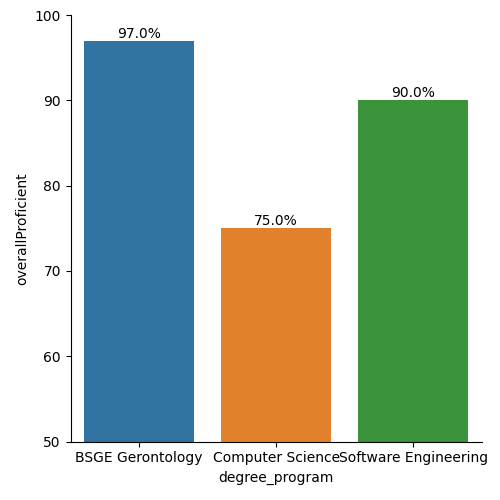
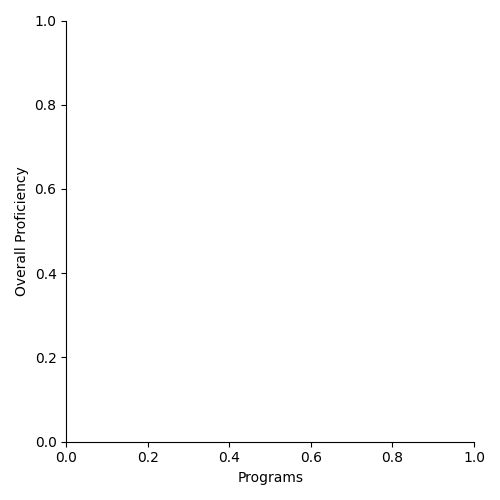
Initial degree comparison for 2 selected degrees added

diff --git a/main/templates/reports/degree_program_comparison.html b/main/templates/reports/degree_program_comparison.html
@@ -16,7 +16,7 @@
 
     <h3>Degree Program Comparisons Report Generation</h3>
     <div class="p-2">
-      <form method="post", action="{% url 'historical' %}">
+      <form method="post", action="{% url 'degreecomparison' %}">
         {% csrf_token %}
         <div style="width:50%; display:inline-block;">
         <h4>Department</h4>
@@ -51,11 +51,7 @@
       --><div style="width:50%; display:inline-block;">
           <h4>Department</h4>
         <select name="department2" class="form-control col-9" title="" required id="id_department2">
-          {% if start_department %}
-            <option value="{{ start_department.pk }}" selected hidden>{{ start_department.name }}</option>
-          {% else %}
             <option value="" selected disabled hidden>Choose a department</option>
-          {% endif %}
           {% for departments in showDepartments %}
             <option value="{{ departments.pk }}" >{{ departments.name }}</option>
           {% endfor %}
@@ -64,11 +60,7 @@
         <br>
         <h4>Degree Program</h4>
         <select name="degree-program2" class="form-control col-9" title="" required id="id_degree-program2">
-          {% if start_degree_program %}
-            <option value="{{ start_degree_program.name }}" selected hidden>{{ start_degree_program }}</option>
-          {% else %}
             <option value="" selected >Choose degree program</option>
-          {% endif %}
           <option value="All Programs">All Programs</option>
           {% for degreePrograms in showDegrees %}
             <option value="" >{{ degreePrograms.name }}</option>
@@ -86,6 +78,8 @@
             {% buttons %}
             <input type="submit" name="gen_pdf" class="btn btn-primary" value = "Generate Report">
             <br><br>
+            <!-- <a type="button" class="btn btn-primary" href="pdfDegreeGen" value = "DegreeComp">View Degree Comparison Data</a>
+            <br><br> -->
             {% endbuttons %}
           </ul>
         </div>

diff --git a/main/templates/reports/historical_report.html b/main/templates/reports/historical_report.html
@@ -87,8 +87,6 @@
             {% buttons %}
             <input type="submit" name="gen_pdf" class="btn btn-primary" value = "Generate Report">
             <br><br>
-            <a type="button" class="btn btn-primary" href="pdfDegreeGen" value = "DegreeComp">View Degree Comparison Data</a>
-            <br><br>
             {% endbuttons %}
           </ul>
         </div>

diff --git a/main/views/util/pdfgenhelpers.py b/main/views/util/pdfgenhelpers.py
@@ -58,7 +58,7 @@ class PDFGenHelpers:
         plot = sns.catplot(x="degree_program", y="percent_total", hue="status", kind="bar", data=df)
         plt.savefig(str(BASE_DIR) + "/main/static/testfig.png")
         
-    def pdfDegreeGenQuery(degreeprogram_id):
+    def pdfDegreeGenQuery(degreeprogram_name):
         """
         Helper for querying the database to generate our default report.
 
@@ -70,8 +70,11 @@ class PDFGenHelpers:
                 - sirqs: is the SLOinreport queryset.
                 - sirsqs: is the SLOinreportstatus queryset.
         """
+        mrdpqs = MakereportsDegreeprogram.objects.filter(name=degreeprogram_name)
+        if len(mrdpqs) < 1:
+            return (None, None)
                 # Degree program report queryset.
-        dprqs = MakereportsReport.objects.filter(degreeprogram=degreeprogram_id)
+        dprqs = MakereportsReport.objects.filter(degreeprogram=mrdpqs[0])
         if len(dprqs) < 1:  # Degree program does not have a report associated with it.
             return (None,None)
         
@@ -80,7 +83,7 @@ class PDFGenHelpers:
         assessmentDataQS = MakereportsAssessmentdata.objects.filter(assessmentversion__in=reportsAssessmentVersionQS)
         return dprqs, assessmentDataQS
 
-    def pdfDegreeGenPlotting(dprqs, assessmentDataQS):
+    def pdfDegreeGenPlotting(degree_program, degree_program2):
         """
         Helper for plotting the resulting QuerySet from pdfGenQuery for our default report
 
@@ -88,35 +91,39 @@ class PDFGenHelpers:
             - plot: The plot utilizing the data.
         """
         degree_programs = []
-        overallProficients = []
-        i = 1
-        while True: 
-            dprqs, assessmentDataQS = PDFGenHelpers.pdfDegreeGenQuery(i)
-            i += 1
-            if None in (dprqs, assessmentDataQS):
-                print("break")
-                break
-            if len(assessmentDataQS) > 0:
-                degree_programs.append(dprqs[0].degreeprogram.name)
-                overallProficients.append(assessmentDataQS[0].overallproficient)
+        overallProficiency = []
+        
+        dprqs, assessmentDataQS = PDFGenHelpers.pdfDegreeGenQuery(degree_program)
+        dprqs2, assessmentDataQS2 = PDFGenHelpers.pdfDegreeGenQuery(degree_program2)
+        print(degree_program)
+        print(degree_program2)
+        if assessmentDataQS is not None and len(assessmentDataQS) > 0 :
+            degree_programs.append(dprqs[0].degreeprogram.name)
+            overallProficiency.append(assessmentDataQS[0].overallproficient)
+        if assessmentDataQS2 is not None and len(assessmentDataQS2) > 0 :
+            degree_programs.append(dprqs2[0].degreeprogram.name)
+            overallProficiency.append(assessmentDataQS2[0].overallproficient)
 
         df = pd.DataFrame(data = {
-            'degree_program' : degree_programs,
-            'overallProficient' : overallProficients,
+            'Programs' : degree_programs,
+            'Overall Proficiency' : overallProficiency,
         })
 
-        plot = sns.catplot(x="degree_program", y="overallProficient",  kind="bar", data=df)
-        plot.set(ylim=(50,100))
-        
-        #Start putting numbers above bar plots*******************************
-        # extract the matplotlib axes_subplot objects from the FacetGrid
-        ax = plot.facet_axis(0, 0)
+        if (len(degree_programs) > 0):
+            plot = sns.catplot(x="Programs", y="Overall Proficiency",  kind="bar", data=df)
+            plot.set(ylim=(50,100))
+            
+            #Start putting numbers above bar plots*******************************
+            # extract the matplotlib axes_subplot objects from the FacetGrid
+            ax = plot.facet_axis(0, 0)
 
-        # iterate through the axes containers
-        for c in ax.containers:
-            labels = [f'{(v.get_height())}%' for v in c]
-            ax.bar_label(c, labels=labels, label_type='edge')
-        #End putting numbers above bar plots*********************************
+            # iterate through the axes containers
+            for c in ax.containers:
+                labels = [f'{(v.get_height())}%' for v in c]
+                ax.bar_label(c, labels=labels, label_type='edge')
+            #End putting numbers above bar plots*********************************
 
-        plt.savefig(str(BASE_DIR) + "/main/static/degreetestfig.png")
-        
+            plt.savefig(str(BASE_DIR) + "/main/static/degreetestfig.png")
+        else:
+            plot = sns.catplot(x="Programs", y="Overall Proficiency",  kind="bar", data=df, order=[degree_program, degree_program2])
+            plt.savefig(str(BASE_DIR) + "/main/static/degreetestfig.png")

diff --git a/main/views/degree_comparison_view.py b/main/views/degree_comparison_view.py
@@ -1,0 +1,57 @@
+from django.shortcuts import render
+from django.contrib import messages
+from django.http import FileResponse, HttpResponse
+from main.models import \
+        MakereportsReport, MakereportsSloinreport, MakereportsDegreeprogram, MakereportsDepartment, MakereportsSlostatus, \
+        MakereportsSlostatus 
+from AcademicAssessmentAssistant.settings import BASE_DIR
+from .reports_view import PDFPage
+from ..forms import PdfForm
+# Report Gen Imports
+from django.http import FileResponse
+from .util.pdfgenhelpers import PDFGenHelpers as pg
+import io
+# Create your views here.
+class DegreeCompPage():
+    """
+    Degree Comparison View
+    """
+    def display_degree_comp(request):
+        """
+        Display Degree Comparison view
+            Notes:
+                This view handles POST requests as well as GET requests for the historical data page. 
+                The view will either generate the PDF if the request is a POST and not from the homepage.
+                Or it will persist some data from the homepage from a POST request.
+                Or it will simply render the page (only possible by manually typing URL).
+        """
+        if request.method == "POST" and "comparisons_woptions" not in request.POST:
+            return PDFPage.display_degree_pdfGen(request)
+        
+        departments = MakereportsDepartment.objects.all()
+        degreePrograms = MakereportsDegreeprogram.objects.all()
+        form = PdfForm()
+
+        if request.method == "POST" and "department" in request.POST and "degree-program" in request.POST:
+            start_department = MakereportsDepartment.objects.filter(id=int(request.POST['department']))[0]
+            start_degree_program = MakereportsDegreeprogram.objects.filter(name=request.POST['degree-program'])[0]
+            return render(
+                request,
+                'reports/degree_program_comparison.html',
+                {
+                    'showDepartments':departments,
+                    'showDegrees':degreePrograms,
+                    'pdfForm':form,
+                    'start_department': start_department,
+                    'start_degree_program': start_degree_program
+                }
+            )
+        return render(
+            request, 
+            'reports/degree_program_comparison.html',
+            {
+                'showDepartments':departments,
+                'showDegrees':degreePrograms,
+                'pdfForm':form
+            }
+        )

diff --git a/main/views/reports_view.py b/main/views/reports_view.py
@@ -66,18 +66,17 @@ class PDFPage():
         return FileResponse(buf, as_attachment=True, filename="DefaultReport.pdf")
 
     def display_degree_pdfGen(request):
-        ## DB query to retrieve usable info for this generated PDF
-        dprqs, assessmentDataQS = pg.pdfDegreeGenQuery(1)
+        degree_program = request.POST['degree-program']
+        degree_program2 = request.POST['degree-program2']
 
         ## Generate the plot
-        if any((dprqs, assessmentDataQS)):
-                plot = pg.pdfDegreeGenPlotting(dprqs, assessmentDataQS)
+        plot = pg.pdfDegreeGenPlotting(degree_program, degree_program2)
 
         ## PDF generation nonsense
         PAGE_WIDTH, PAGE_HEIGHT = letter
         buf = io.BytesIO()
         c = canvas.Canvas(buf, pagesize=letter)
-        c.setTitle("DefaultReport")
+        c.setTitle(f"{degree_program} and {degree_program2} Comparison")
         styles = getSampleStyleSheet()
         f = Frame(inch, inch, 7*inch, 9*inch, showBoundary=0)
         styleN = styles['Normal']
@@ -93,12 +92,12 @@ class PDFPage():
         f.addFromList(story, c)
         c.showPage()
         story.clear()
-        story.append(Paragraph(f"Percentage of Targets the {dprqs[0].degreeprogram.name} Degree Program Meets", styleH1))
+        story.append(Paragraph(f"Comparison of Proficiency between {degree_program} and {degree_program2}", styleH1))
         c.drawInlineImage(str(BASE_DIR) + "/main/static/degreetestfig.png", inch, inch, width=400, height=300)
         f.addFromList(story, c)
         c.save()
         buf.seek(0)
 
         # Return file to download to the user.
-        return FileResponse(buf, as_attachment=True, filename="DefaultReport.pdf")
+        return FileResponse(buf, as_attachment=True, filename=f"{degree_program} and {degree_program2} Comparison.pdf")
         

diff --git a/main/urls.py b/main/urls.py
@@ -1,11 +1,12 @@
 from django.urls import path
-from main.views import basic_views, reports_view, smart_view, historical_view
+from main.views import basic_views, reports_view, smart_view, historical_view, degree_comparison_view
 urlpatterns = [
     path("", basic_views.HomePage.display_index, name="home"),
     path("smartAssistant", smart_view.SmartAssistantPage.display_smartAssistant, name="smartAssistant"),
     path("pdfGen", reports_view.PDFPage.display_pdfGen, name="pdfGen"),
     path("pdfDegreeGen", reports_view.PDFPage.display_degree_pdfGen, name="pdfDegreeGen"),
     path("degreeDropdown", basic_views.HomePage.display_sendDegrees, name="degreeDropdown"),
+    path("assistant/degreecomparison", degree_comparison_view.DegreeCompPage.display_degree_comp, name="degreecomparison"),
     path("assistant/historical", historical_view.HistoricalPage.display_historical, name="historical"),
     path("assistant", basic_views.HomePage.page_traversal, name="traverse")
 ]

diff --git a/main/views/basic_views.py b/main/views/basic_views.py
@@ -6,6 +6,7 @@ from main.models import \
 from AcademicAssessmentAssistant.settings import BASE_DIR
 # Report Gen Imports
 from django.http import FileResponse
+from main.views.degree_comparison_view import DegreeCompPage
 from main.views.historical_view import HistoricalPage
 import io
 
@@ -51,6 +52,8 @@ class HomePage():
             return HistoricalPage.display_historical(request)
         elif "smart_woptions" in request.POST:
             return SmartAssistantPage.display_smartAssistant(request)
+        elif "comparisons_woptions" in request.POST:
+            return DegreeCompPage.display_degree_comp(request)
         else:
             return HomePage.display_index(request)
 
